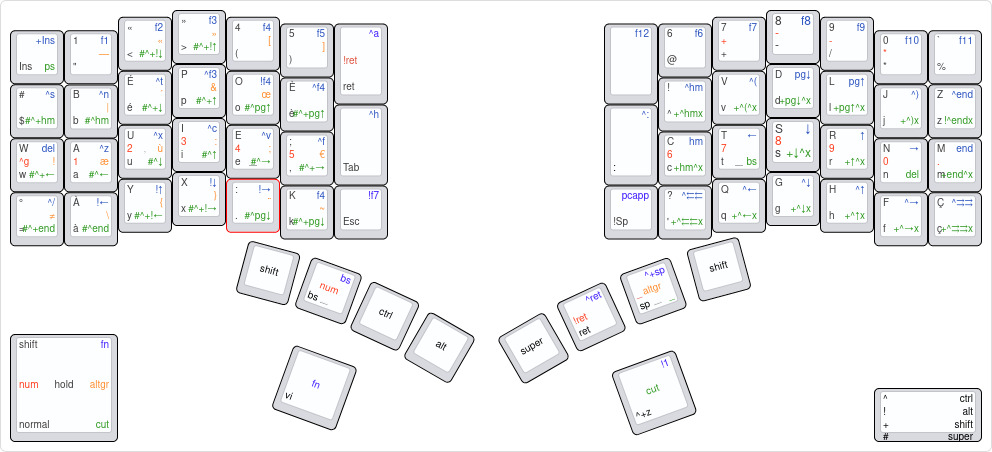
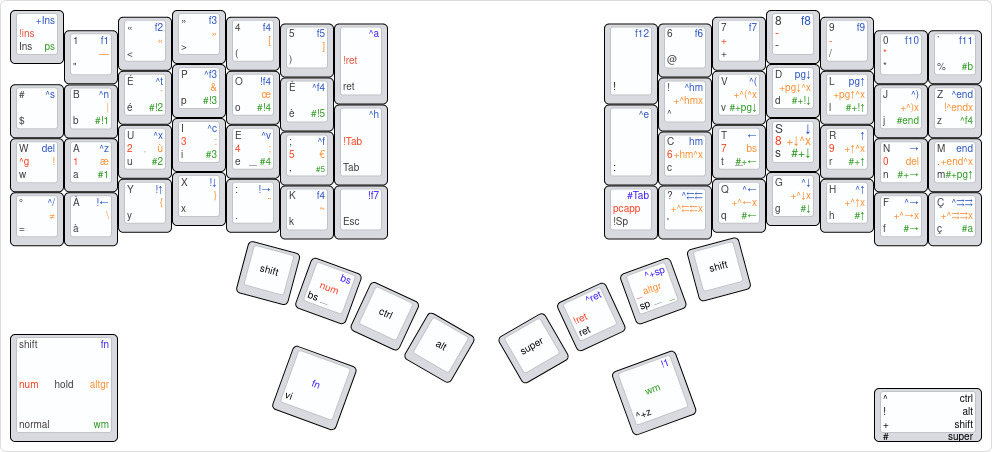
Update documentation + image.

diff --git a/README-WHY-MY-PERSONAL-LAYOUT.md b/README-WHY-MY-PERSONAL-LAYOUT.md
@@ -4,7 +4,7 @@
 See on http://www.keyboard-layout-editor.com/#/gists/831524ae41aec20a65ff519557db7f50
 
 # My Layers
-There are 5 layers (primary, fn, wm, numpad, altgr)
+There are 5 layers : Primary, Fn (Function), WM (Window Manager), NumPad and AltGr.
 
 ## Primary layer (activated by default)
 
@@ -18,13 +18,17 @@ I used bépo layout (equivalent of dvorak for french) but tiny changes because m
 ### Special keys
 * Led is mapped to Enter (needed many with left hand, notably if you copy/paste with mouse and need to tap enter to launch a find).
 * Menu is mapped to launch my windows selector (launch rofi under linux with only my windows, switcheroo on windows).
-* Return is mapped to : (to have it directly, mainly for vi)
-* Any is mapped to ! (to have it directly)
-* Prog is mapped to Ins
+* Return is mapped to : (to have it directly, mainly for vi).
+* Any is mapped to ! (to have it directly).
+* Prog is mapped to Ins.
 
 ### Palm keys
-* Left Palm keys (fn1) is mapped to activate Leader key on my Vi mode.
-* Right Palm keys (fn2) is mapped Shift+Super+Z to launch my launcher (launch rofi under linux and executor.dk on windows).
+* Left Palm key (fn1) is mapped to :
+  - Tapped : to activate Leader key on my Vi mode.
+  - Hold : to activate the Fn (Function) Layer.
+* Right Palm keys (fn2) is mapped :
+  - Tapped : Shift+Super+Z to launch my launcher (launch rofi under linux and executor.dk on windows).
+  - Hold : to activate the WM (Window Manager) Layer.
 
 ### Left side
 Shift, Backspace, Ctrl, Alt (instead of Ctrl, BackSpace, Cmd, Shift). 
@@ -36,10 +40,10 @@ I prefer to let 2 keys for Shift because :
 * We need to let on the 2 sides because some shortcuts are like Ctrl+Shift notably in Intellij.
 * Alternate the shift use (use left shift to capitalize right letters keys and use right shift to capitalize right letters keys).
 
-It is use with OneShot plugin (no need to press simultaneously modifier + key, you can do modifier then key)
+It is use with OneShot plugin (no need to press simultaneously modifier + key, you can tap the modifier then the key).
 
 #### Ctrl / Alt
-Let only Ctrl and Alt on the left with OneShot plugin (no need to press simultaneously modifier + key, you can do modifier then key) to have more notably return.
+Let only Ctrl and Alt on the left with OneShot plugin (no need to press simultaneously modifier + key, you can do tap the modifier then the key) to have more notably return.
 
 I have quasi no shortcut with Ctrl+Alt+something or have an alternative to use this shortcut.
 
@@ -50,7 +54,7 @@ Super, Enter, Space, Shift (instead of Shift, Alt, Space, Ctrl).
 
 Enter on the left of Space to be better accessible than the default place.
 
-The space is a macro, if Shift is press, the space is mapped to _ (useful when you type some constants in Java/Kotlin).
+The space is a macro, if Shift is press, the space is mapped to _ (useful when you type some constants in Java/Kotlin, generally the only case I have to type _).
 
 Super on the left of Enter (not really used anymore).
 
@@ -60,14 +64,14 @@ Super on the left of Enter (not really used anymore).
 All the common shortcuts available in File / Edit menu are available, can be used with the mouse on the right side if needed.
 * On the row below the homerow left, you have global shortcuts the file menu shortcuts (Ctrl+S, Ctrl+N, Ctrl+T, Ctrl+F3, Ctrl+W, Alt+F4, Ctrl+A)
 * On the homerow left, you have global shortcuts the file menu shortcuts (delete, Ctrl+Z, Ctrl+X, Ctrl+C, Ctrl+V, Ctrl+F, Ctrl+H)
-* On the row below the homerow left, you have shorcuts for navigate between files mainly in Intellij with some customizations : Ctrl+/ (comment), Alt+Left (previous file), Alt+Down, Alt+Up (go to parent directory), Alt+Right (next file), F4 (go to declaraton), Alt+F7 (find usages)
+* On the row below the homerow left, you have shortcuts for navigate between files mainly in Intellij with some customizations : Ctrl+/ (comment), Alt+Left (previous file), Alt+Down, Alt+Up (go to parent directory), Alt+Right (next file), F4 (go to declaraton), Alt+F7 (find usages)
  
 ### Right side keys
 All the shortcuts to navigate really quickly in a editor.
-* On the homerow right, you have home, left, down, up, right, end (as vi k,j,l but shift on the right to have it on the real homerow keys), clearly better than a inverse T when you are used to.
+* On the homerow right, you have home, left, down, up, right, end (as vi k,j,l but shift on the right to have it on the real homerow keys), clearly better than an inverse T when you are used to.
 * On the row below the homerow right, you have the same but with Ctrl+ (except where home / end replace by Ctrl+Left/Right*4)
 * On the row above the homerow right, you have Ctrl+Home (start of a file), Ctrl+\( (code block start), PgDown, PgUp, Ctrl+](code block start), Ctrl+End (end of a file). 
-* Return is mapped to Ctrl + : (used to go to commandline/terminal mode in the different when it exists like Intellij, micro ...)
+* Return is mapped to Ctrl+E : (used to go to commandline/terminal mode in the different when it exists like Intellij, micro ...)
 
 ### Right Palm Keys
 * A tap on Right Palm key is mapped to Alt+1 to go quick to project dock in Intellij and back to the main editor dock through Esc.
@@ -75,29 +79,23 @@ All the shortcuts to navigate really quickly in a editor.
 + Fn+Enter is mapped to Ctrl+Return (for Intellij)
 
 
-## Window Layer (activated by holding the right palm key)
+## Window Manager Layer (activated by holding the right palm key)
 
-### Left side keys
-#### With a floating window manager (like openbox or windows 10, but can be use with any floating windows manager on linux or on windows)
-All the shortcuts are used to manipulate windows (on linux I used openbox with on linux see my dotfiles https://github.com/alexandrenavarro/dotfiles/blob/master/.config/openbox/rc.xml, on windows I used some scripts in AutoHotKeys see https://github.com/alexandrenavarro/wiki/blob/master/windows-10/Configuration.md because some weird behaviour on Super+Left / Super+Right and to have 1/4 or 1/8 windows):
-* On the homerow left, you have : move to left-left pane on [4x1], move to left pane on [2x1] (like Super+Left on Windows or Gnome), minimize (like Super+Down on Windows or Gnome), maximize (like Super+Up on Windows or Gnome), move right pane on [2x1] (like Super+Right on Windows or Gnome), move to right-right pane [4x1].
-* On the row below the homerow left, move to left-left-down pane on [4x2], move to left-down pane on [2x2], move to left-down pane on [4x2], move to right-down pane on [4x2], move to right-down pane on [2x2], move to right-right-down pane on [4x2]
-* On the row above the homerow felt, move to left-left-up pane on [4x2], move to left-up pane on [2x2], move to left pane on [4x1], move to right pane on [4x1], move to right-up pane on [2x2], move to right-right-up pane on [4x2] 
-* On the first row right, nothing, nothing,  move to left-up pane on [4x2], move to right-up pane on [4x2]
+### Left side keys (mainly use with bspwn or custom AutoHotKeys on Windows)
+All the shortcuts are used to manipulate desktops (on linux I used bspc / sxhkd with generally used shortcuts for this window manager on linux see my dotfiles https://github.com/alexandrenavarro/dotfiles/blob/master/.config/bspwm/bspwmrc and https://github.com/alexandrenavarro/dotfiles/blob/master/.config/sxhkd/sxhkdrc, on windows I used some scripts in AutoHotKeys see https://github.com/alexandrenavarro/wiki/blob/master/windows-10/Configuration.md):
+* On the homerow left, you have : move you current selected window to Desktop 1, 2, 3, 4 and 5 (Super+Alt+Shift+Number). 
+* On the row above the homerow left, you have : go to Desktop 1, 2, 3, 4 and 5 (Super+Shift+Number). 
  
-#### With a floating window manager (bspwn the best tiling windows manager on linux)
-* On the homerow left, you have : move to left, minimize (set hidden=on), maximize (monocle), move right.
-* On the row below the homerow left, you have : move to down, move to up.
-* On the row above the homerow felt, you have : set status to tiled, set status to fullscreen. 
+### Right side keys (mainly use with bspwn or custom AutoHotKeys on Windows)
+All the shortcuts are used to manipulate windows (on linux I used bspc / sxhkd with generally used shortcuts for this window manager on linux see my dotfiles https://github.com/alexandrenavarro/dotfiles/blob/master/.config/bspwm/bspwmrc and https://github.com/alexandrenavarro/dotfiles/blob/master/.config/sxhkd/sxhkdrc, on windows I used some scripts in AutoHotKeys see https://github.com/alexandrenavarro/wiki/blob/master/windows-10/Configuration.md):
+* On the homerow right, you have : move the window to left (Super+Shift+Left), move the window to down (Super+Shift+Down), move the window to up (Super+Shift+Up), move the window right (Super+Shift+Right), use monocole mode, always maximized window (Super+Shift+PageUp).
+* On the row below the homerow right, you have : select the window to left (Super+Left), select the window to down (Super+Down), select the window to up (Super+Up), select the window right (Super+Right), Super+A.
+* On the row above the homerow right, you have : set status to floating (Super+Alt+Shift+PageDown), set status to tiled (Super+Alt+Shift+Down), set status to fullscreen (Super+Alt+Shift+Up), rotate clockwise (Super+End), close window (Alt+F4), Super+B. 
 
-### Right side keys (mainly use with bspwn)
-It is used mainly with bspwn or any tiling window manager.
-* On the homerow right, you have : super + left (select the window on the left), super + down (select the window on the down), super + up (select the window on the up), super + right (select the window on the right). 
-
-## Altgr Layer (activated by Holding Space)
+## AltGr Layer (activated by Holding Space)
 
 ### Left side keys
-It is the equivalent of altgr (right alt) for bépo but with some customization (easy to do customization like that).
+It is the equivalent of AltGr (right alt) for bépo but with some customization (easy to do customization like that).
 * < and > are accessible directly instead « of »
 * : ¨ was inverse.
 
@@ -108,16 +106,16 @@ All the shortcuts to cut/delete really quickly in a editor or a terminal (custom
 * On the row above the homerow right, you have to cut/delete Ctrl+Home (start of a file), Ctrl+\( (code block start), PgDown, PgUp, Ctrl+](code block start), Ctrl+End (end of a file). 
 
 
-## Numpad Layer  
+## NumPad Layer  
 All digits are set on the homerow (some x position as there are on the top row).
 
 On first key on homerow left is mapped to Ctrl+G (go to line), generally use before typing number.
 
 The key at the right of 0 is mapped to point.
 
-Numpad+Led is mapped to Alt+Enter .
-Numpad+Space is mapped to _ .
-Numpad+Alt is mapped to Alt+Enter . 
+NumPad+Led is mapped to Alt+Enter.
+NumPad+Prog is mapped to Alt+Ins.
+NumPad+Alt is mapped to Alt+Enter. 
 
 
 ## Vi Mode
@@ -159,8 +157,8 @@ In vi you do number + command + movement, here you do number + movement, it will
 * You can have a kind vi mode like with leader plugin.
 
 ## Cons 
-* Can't let backspace or space pushed to type multiple times, you have to use fn+backspace or cut+left to do it or fn2+space, but preferred because of the need to have quick access to numpad, altgr layer and _.
-* Alt + Tab is not accessible as I want (nevertheless accessible only with left hand, better than a classical placement) but I don't find better solution or a way to it.
+* Can't let backspace or space pushed to type multiple times, you have to use cut+left to do it or NumPad+space, but preferred because of the need to have quick access to NumPad and altGr layer.
+* Alt+Tab is not accessible as I want (nevertheless accessible only with left hand, better than a classical placement) but I don't find better solution or a way to it.
 * Need to unpress backspace (or use cut + left) to fix an error when you type number.
 * Windows manipulations are not accessible with only the left hand.
 * Find no real solution for the pointer through a plugin keyboard (the official mouse plugin is not really useable for real life) or the add trackpoint/trackpad on the keyboard.
@@ -175,10 +173,10 @@ You see the letter of the keys of the homerow appears when you untapped, not whe
 I used QuKeys only on backspace / spacebar because I can't really notice this problem on these special keys.
  
 ## Use a macro to type several letters
-I tried some stuffs like ". ", ", " or ". "+Shift letter but at the end, I did not use it.
+I tried some stuffs like combination of multiple letters in on one key like ". ", ", " or ". "+Shift letter but at the end, I did not use it.
 
 ## Use fn when typing a word
-When you hold the fn, you change the position of your hands which is not really problematic when type on key on the same hand or multiple on the other hand but not really easy when you type some keys on the same hand.
+When you hold the fn1 or fn2, you change the position of your hands which is not really problematic when type on key on the same hand or multiple on the other hand but not really easy when you type some keys on the same hand.
 So use fn for shortcuts one time or move your cursor.  
  
 ## Having a numpad only on a side
@@ -208,16 +206,25 @@ I'm interested if some vi gurus what kind of command they often use they can't d
 * I used really few Ctrl+S (my IDE for programming in Intellij which save automatically), Ctrl+O, Ctrl+N.
 * I don't used a lot the Ctrl+Home/End (move to start/end file), Ctrl+Left/Right *4 (move to previous/next 4 words), Ctrl+(move to Code Block start/end).
 * I don't used anymore Super key.
-* I used more Ctrl+F I expected.
 * With this layout I used quasi never Ctrl or Alt directly, except Alt+Tab on windows and some IDE shortcuts (Alt+f12 or Ctrl+Shift+F10 mainly).
-* Use palm key + something for one action (because it is really quick to tap) but not something in your flow of typing like an altgr (because the position of your hands are not well positioned).
+* I used more Ctrl+F I expected.
+* Use palm key + something for one action (because it is really quick to tap) but not something in your flow of typing like an AltGr (because the position of your hands are not well positioned).
 * You can customize shortcuts in a terminal in order not to have emacs, but depending of your terminals, the ways how the characters are typed are really different, use `showkey -a` to understand how your terminal understand what you type, it can be really different between the terminals. 
-* Don't map Left Palm Key (fn1) with a launcher or something similar because you will use a lot and sometimes for editing and sometime you will tap it by accident (you tapped and untapped quickly because you changed what you want to do). Personnaly, it is mapped to Vi mode and works well in real life.
-* Don't try optimize everything, focus on the one the need to keep your "flow" like when you are programming or stuffs you do regularly and you want to be productive as possible. 
+* Don't map Left Palm Key (fn1) with a launcher or something similar because you will use a lot and sometimes for editing and sometimes you will tap it by accident (you tapped and untapped quickly because you changed what you want to do). Personnally, it is mapped to Vi mode and works well in real life.
+* Don't try optimize everything, focus on the one the need to keep your "flow" like when you are programming or stuffs you do regularly and you want to be productive as much as possible. 
 Example : Don't care the shortcuts when you navigate on a browser because generally, you are not in your flow but you are just searching / reading something maybe using the mouse. 
 
 ## Some others ideos not tested
-* Having a layout for tmux, I'm not a heavy user of tmux but clearly, if your are, create a layout for that makes sense and easy to do. 
+* Having a layout for tmux, I'm not a heavy user of tmux but clearly, if your are, create a layout for that makes sense and easy to do.
+* If you used a really big screen like 49 inches or 2x27 inches and you use a floating window manager, you can configure it to have your screen divided by 4 or 8 with some shortcuts.
+
+Example of my previous configuration (not used anymore because I use a Bspwm Tiling Window Manager and also because my main screen is only 34 inches) :
+
+All the shortcuts are used to manipulate windows (on linux I used openbox with on linux see my dotfiles https://github.com/alexandrenavarro/dotfiles/blob/master/.config/openbox/rc.xml, on windows I used some scripts in AutoHotKeys see https://github.com/alexandrenavarro/wiki/blob/master/windows-10/Configuration.md because some weird behaviour on Super+Left / Super+Right and to have 1/4 or 1/8 windows):
+* On the homerow left, you have : move to left-left pane on [4x1], move to left pane on [2x1] (like Super+Left on Windows or Gnome), minimize (like Super+Down on Windows or Gnome), maximize (like Super+Up on Windows or Gnome), move right pane on [2x1] (like Super+Right on Windows or Gnome), move to right-right pane [4x1].
+* On the row below the homerow left, move to left-left-down pane on [4x2], move to left-down pane on [2x2], move to left-down pane on [4x2], move to right-down pane on [4x2], move to right-down pane on [2x2], move to right-right-down pane on [4x2]
+* On the row above the homerow felt, move to left-left-up pane on [4x2], move to left-up pane on [2x2], move to left pane on [4x1], move to right pane on [4x1], move to right-up pane on [2x2], move to right-right-up pane on [4x2] 
+* On the first row right, nothing, nothing,  move to left-up pane on [4x2], move to right-up pane on [4x2] 
   
 # Conclusion
 I really think customizing my layout help me to be more productive on the different common tasks notably when I'm programming (reading or writing code).
